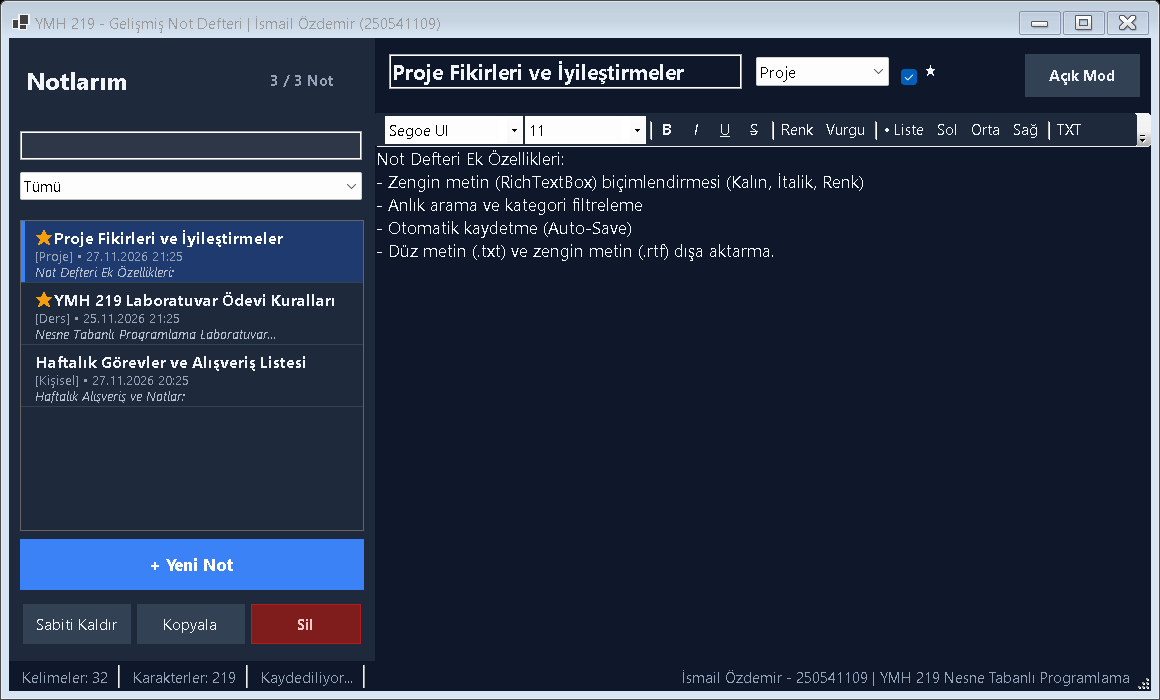
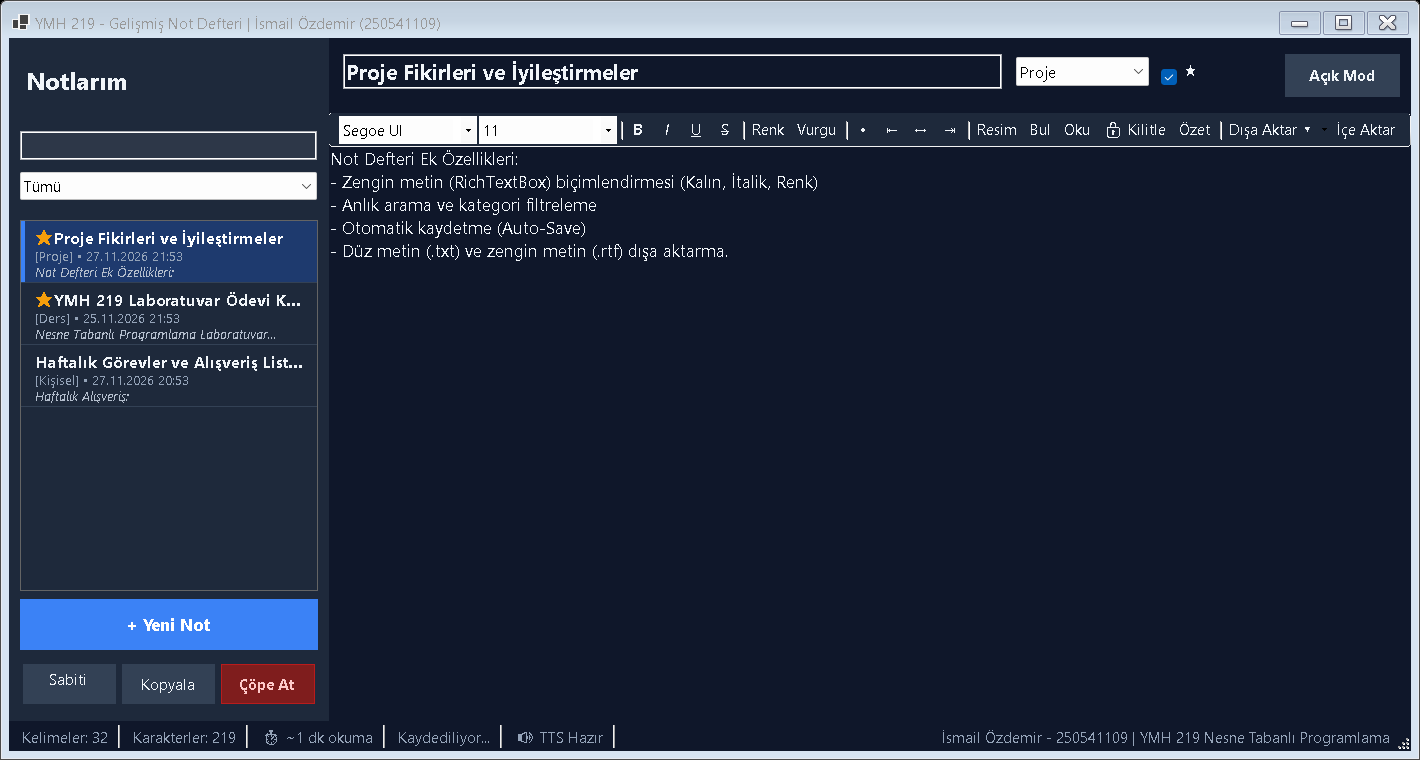
docs: update README.md and screenshots documenting all advanced pro features

Changed region(s): [[0.0, 0.0, 1.0, 1.0], [0.0, 0.96, 0.4345, 0.99], [0.6828, 0.24, 0.7448, 0.27]]

diff --git a/README.md b/README.md
@@ -1,4 +1,4 @@
-# YMH219 - Gelişmiş Not Defteri Uygulaması (NotepadApp)
+# YMH219 - Gelişmiş Not Defteri Uygulaması (NotepadApp Pro)
 > **Kocaeli Üniversitesi — Bilgisayar / Yazılım Mühendisliği**  
 > **Ders:** YMH 219 - Nesne Tabanlı Programlama  
 > **Ödev:** 6. Ek Uygulama Ödevi — Not Defteri Uygulaması (Dosya İşlemleri + Serileştirme)  
@@ -11,9 +11,9 @@
 
 ## 1. Proje Amacı ve Genel Bakış
 
-Bu proje; nesne tabanlı programlama prensipleri, modern C# ve .NET 8.0 teknolojileri ile geliştirilmiş, kullanıcı notlarını güvenli biçimde saklayan ve zengin metin düzenleme yeteneklerine sahip masaüstü bir **Not Defteri** uygulamasıdır.
+Bu proje; nesne tabanlı programlama prensipleri, modern C# ve .NET 8.0 teknolojileri ile geliştirilmiş, kullanıcı notlarını güvenli biçimde saklayan, zengin metin biçimlendirme, AES-256 şifreleme ve Türkçe sesli okuma yeteneklerine sahip profesyonel bir masaüstü **Not Defteri** uygulamasıdır.
 
-Uygulamanın odak noktası; verinin yerel dosya sistemine yazılıp okunması (**File I/O**), nesne modellerinin kalıcı hâle getirilmesi (**JSON Serialization / Deserialization**) ve beklenmedik sistem kesintilerine karşı veri bütünlüğünün korunmasıdır. Uygulama kapatılıp açılsa bile kullanıcının tüm notları, biçimlendirmeleri ve kategori yapılandırmaları eksiksiz korunur.
+Uygulamanın odak noktası; verinin yerel dosya sistemine yazılıp okunması (**File I/O**), nesne modellerinin kalıcı hâle getirilmesi (**JSON Serialization / Deserialization**), veri güvenliği (**AES-256 CBC Cryptography**) ve beklenmedik sistem kesintilerine karşı veri bütünlüğünün korunmasıdır (**Atomic Write & Backup Recovery**).
 
 ---
 
@@ -34,10 +34,10 @@ Uygulamanın odak noktası; verinin yerel dosya sistemine yazılıp okunması (*
 | **C# / .NET** | 8.0 (net8.0-windows) | Temel programlama dili ve modern çalışma zamanı ortamı |
 | **Windows Forms (WinForms)** | .NET 8.0 | Masaüstü grafik kullanıcı arayüzü (GUI) ve olay güdümlü mimari |
 | **System.Text.Json** | Dahili | Yüksek performanslı UTF-8 JSON serileştirme ve ayrıştırma |
-| **System.IO** | Dahili | `File`, `StreamWriter`, `StreamReader`, `Path` ile dosya işlemleri |
-| **GDI+ (System.Drawing)** | Dahili | Özel liste kartı çizimi (`OwnerDraw`), dinamik renk paletleri ve tema motoru |
-
-*Not: Uygulama harici üçüncü parti bağımlılığa ihtiyaç duymadan, modern .NET 8 SDK'nın optimize edilmiş yerel kütüphaneleriyle çalışmaktadır.*
+| **System.Security.Cryptography** | Dahili | AES-256 CBC simetrik şifreleme ve PBKDF2 anahtar türetimi |
+| **System.Speech** | 8.0.0 | Türkçe Text-to-Speech (TTS) sesli okuma motoru |
+| **System.IO** | Dahili | `File`, `StreamWriter`, `StreamReader`, `Path` ile atomik dosya I/O |
+| **GDI+ (System.Drawing)** | Dahili | Özel liste kartı çizimi (`OwnerDraw`), dinamik tema paletleri |
 
 ---
 
@@ -48,56 +48,65 @@ Uygulama, nesne tabanlı tasarım ve katmanlı mimari ilkelerine göre kurgulanm
 ```
 YMH219-NotepadApp/
 ├── Models/
-│   ├── Note.cs                # Tekil not modeli (Id, Title, Content, Rtf, Category, IsPinned, vb.)
-│   └── NoteCategory.cs        # Kategori sabitleri ve filtreleme listeleri
+│   ├── Note.cs                # Tekil not modeli (Id, Title, Content, Rtf, Category, IsPinned, IsEncrypted, IsDeleted, vb.)
+│   └── NoteCategory.cs        # Kategori sabitleri, filtreler ve Çöp Kutusu tanımı
 ├── Services/
-│   └── NoteStorageService.cs  # Atomik JSON kaydetme, yedekten kurtarma, TXT/RTF export/import
+│   ├── NoteStorageService.cs  # Atomik JSON kaydetme, yedekten kurtarma, TXT/RTF/MD/HTML export/import
+│   ├── EncryptionService.cs   # AES-256 CBC şifreleme ve PBKDF2 parola doğrulama servisi
+│   └── TextToSpeechService.cs # Türkçe ses sentezleme (TTS) ve ses kontrol servisi
 ├── Forms/
-│   ├── MainForm.cs            # Olay yönetimi, debounced auto-save, tema motoru, arama ve filtreleme
-│   └── MainForm.Designer.cs   # Dinamik TableLayoutPanel, RichTextBox, ToolStrip ve liste düzeni
+│   ├── MainForm.cs            # Ana form olay yönetimi, debounced auto-save, tema motoru
+│   ├── MainForm.Designer.cs   # TableLayoutPanel, RichTextBox, ToolStrip ve liste düzeni
+│   ├── FindReplaceForm.cs     # Not içinde arama ve değiştirme diyaloğu (Ctrl+F / Ctrl+H)
+│   └── StatsForm.cs           # Not istatistikleri ve analiz dashboard modal penceresi
 ├── screenshots/               # Ekran görüntüleri (main_light.png, main_dark.png)
 ├── Program.cs                 # Giriş noktası ve otomatik ekran görüntüsü üretim CLI desteği
-└── NotepadApp.csproj          # .NET 8 proje yapılandırma dosyası
+└── NotepadApp.csproj          # .NET 8 proje ve paket yapılandırma dosyası
 ```
-
-### Öne Çıkan Tasarım Prensipleri:
-1. **Model-Servis Ayrımı (Separation of Concerns):**  
-   Veri saklama, serileştirme ve dosya işlemleri UI formundan tamamen izole edilerek `NoteStorageService` sınıfında toplanmıştır.
-2. **Atomik Dosya Yazma (Atomic File I/O):**  
-   Kayıt sırasında doğrudan asıl dosya üzerine yazmak yerine önce `.tmp` uzantılı geçici dosyaya yazılır, mevcut dosya `notes_backup.json` olarak yedeklenir ve atomik dosya taşıma (`File.Move`) ile veri kaybı riski ortadan kaldırılır.
-3. **Hata Yönetimi ve Kurtarma (Resilience & Error Handling):**  
-   Asıl dosya bulunamadığında veya bozulduğunda otomatik olarak yedek dosyaya başvurulur; her iki dosya da yoksa örnek başlangıç verileri üretilerek programın çökmesi engellenir.
-4. **Zaman Damgası Yönetimi:**  
-   Her notun oluşturulma (`CreatedAt`) ve son düzenlenme (`UpdatedAt`) tarihleri milisaniye hassasiyetinde tutulur ve arayüzde biçimlendirilmiş olarak gösterilir.
 
 ---
 
 ## 5. Uygulamanın Özellikleri
 
-### A. Asgari Uygulama Gereksinimleri (Föy Kapsamı)
-- [x] **CRUD İşlemleri:** Başlık ve içerikten oluşan not ekleme, listeleme, anlık düzenleme ve onaylı silme.
-- [x] **JSON Serileştirme:** Tüm notların `List<Note>` koleksiyonu olarak JSON dosyasına kaydedilmesi ve uygulama açılışında otomatik geri yüklenmesi.
-- [x] **Düz Metin (.txt) Dışa Aktarma:** `StreamWriter` kullanılarak not başlığı, kategorisi, tarihçesi, öğrenci bilgisi ve içeriği ile biçimli `.txt` dosyası üretimi.
-- [x] **Sağlam Hata Yönetimi:** Dosya bulunamaması, okuma/yazma izin hataları ve bozuk dosya senaryolarına karşı `try-catch` blokları ve loglama.
+### A. Asgari Uygulama Gereksinimleri (Föy Kapsamı - 40 Puan)
+- [x] **CRUD Not İşlemleri:** Başlık ve içerikten oluşan not ekleme, listeleme, anlık düzenleme ve silme.
+- [x] **Kalıcı JSON Serileştirme:** Notların `List<Note>` koleksiyonu olarak JSON dosyasına kaydedilmesi ve açılışta otomatik geri yüklenmesi.
+- [x] **Atomik Dosya Güvenliği:** Ani kapanmalara karşı `.tmp` geçici dosya yazımı ve `notes_backup.json` yedekleme sistemi.
+- [x] **Düz Metin (.txt) Dışa Aktarma:** `StreamWriter` kullanılarak başlık, kategori, zaman damgaları, yazar ve içeriğin `.txt` olarak kaydedilmesi.
+- [x] **Sağlam Hata Yönetimi:** Dosya bulunamama veya veri bozulma senaryolarına karşı `try-catch` ve otomatik onarım mekanizması.
 
-### B. İsteğe Bağlı Geliştirmeler (Bonus Özellikler - Tam Puan)
-- [x] **Anlık Arama ve Filtreleme:** Arama kutusuna yazıldığı anda not başlıkları ve içeriklerinde büyük/küçük harf duyarsız canlı filtreleme.
-- [x] **Otomatik Kaydetme (Debounced Auto-Save):** Kullanıcı yazı yazarken arayüzü kilitlemeyen 600 ms debounced zamanlayıcı ile değişikliklerin anında JSON dosyasına aktarılması.
+### B. İsteğe Bağlı Geliştirmeler (Föydeki Tüm 4 Bonus Madde - Tam Puan)
+- [x] **Anlık Arama ve Filtreleme:** Arama kutusuna yazıldığı anda başlık ve içerikte büyük/küçük harf duyarsız canlı filtreleme.
+- [x] **Otomatik Kaydetme (Debounced Auto-Save):** Arayüzü dondurmayan 600 ms debounced zamanlayıcı ile her harf değişiminde otomatik JSON güncellemesi.
 - [x] **Kategori ve Etiket Desteği:** Notları kategorilere ayırma (`Ders`, `Proje`, `Kişisel`, `Önemli`, `Genel`) ve kategoriye göre süzebilme.
 - [x] **Zengin Metin (RichTextBox) Biçimlendirmesi:** 
-  - Yazı tipi ailesi ve boyutu seçimi
-  - **Kalın (Bold)**, *İtalik (Italic)*, <u>Altı Çizili (Underline)</u>, ~~Üstü Çizili (Strikethrough)~~
-  - Metin rengi ve metin vurgu rengi paleti seçici
-  - Madde işaretli liste (Bullet list) oluşturma
-  - Sola, ortaya ve sağa hizalama
+  - Yazı tipi ailesi ve boyutu seçici
+  - **Kalın (B)**, *İtalik (I)*, <u>Altı Çizili (U)</u>, ~~Üstü Çizili (S)~~
+  - Metin rengi ve vurgu rengi paleti seçici
+  - Madde işaretli liste (`•`) ve Sola / Ortaya / Sağa hizalama (`⇤`, `↔`, `⇥`)
   - Zengin metin biçimini `.rtf` olarak kaydetme ve içe aktarma desteği
 
-### C. Ekstra Kullanılabilirlik İyileştirmeleri
-- [x] **Sabitlenen Notlar (★ Pinned):** Önemli notları listenin en başına sabitleme desteği.
-- [x] **Hızlı Not Kopyalama (Duplicate):** Tek tıkla mevcut notun kopyasını oluşturabilme.
-- [x] **Açık / Koyu Tema (Dark Mode):** Göz yormayan modern karanlık tema ile klasik açık tema arasında tek tıkla geçiş.
-- [x] **Canlı Kelime ve Karakter Sayacı:** Not düzenlenirken anlık olarak kelime ve karakter sayısının alt durum çubuğunda raporlanması.
-- [x] **Gelişmiş Kart Görünümü (OwnerDraw):** Listede her not için başlık, kategori etiketi, tarih ve ilk satır önizlemesini içeren özel GDI+ çizimi.
+### C. Profesyonel İleri Düzey Ekstra Özellikler
+1. **🎙 Türkçe Sesli Okuma (Text-to-Speech):**  
+   Not içeriğini veya seçili metni tek tıkla (`🔊 Oku`) doğal Türkçe ses tonuyla seslendirme.
+2. **🔒 AES-256 Parolayla Not Kilitleme:**  
+   Hassas notları parola ile kilitleme (`🔒 Kilit`). Kilitli notların içeriği JSON dosyasına şifrelenmiş olarak yazılır; parola bilinmeden açılamaz.
+3. **🗑 Çöp Kutusu ve Geri Yükleme (Recycle Bin / Soft Delete):**  
+   Silinen notlar önce çöp kutusuna taşınır. İstenirse tek tıkla geri yüklenebilir (`♻ Geri Yükle`) veya kalıcı olarak temizlenebilir (`🧹 Çöpü Boşalt`).
+4. **🔍 Bul ve Değiştir (Find & Replace):**  
+   Not içinde kelime arama, sonrakini bulma ve toplu değiştirme penceresi (`Ctrl+F` / `Ctrl+H`).
+5. **🖼 Resim ve Görsel Ekleme:**  
+   Bilgisayardan resim seçerek (`🖼 Resim`) veya panodan doğrudan yapıştırarak (`Ctrl+V`) not içerisine görsel ekleyebilme.
+6. **📄 Çoklu Format Dışa Aktarma:**  
+   `.txt` ve `.rtf` formatlarının yanı sıra formatlı Markdown (`.md`) ve modern CSS stilli web sayfası (`.html`) olarak dışa aktarabilme.
+7. **⏱ Tahmini Okuma Süresi Hesabı:**  
+   Alt durum çubuğunda kelime/karakter sayısının yanında `"⏱ ~1 dk okuma"` süresi hesaplaması.
+8. **📊 Not Analizi ve Dashboard:**  
+   Tek tıkla (`📊 Özet`) açılan modal pencerede kategori dağılımı, toplam kelime/karakter istatistikleri ve genel analiz raporu.
+9. **🌙 Açık / Koyu Tema (Dark / Light Mode):**  
+   Göz yormayan karanlık tema ile klasik açık tema arasında tek tıkla geçiş.
+10. **★ Sabitlenen Notlar:**  
+    Önemli notları listenin en başına sabitleme desteği.
 
 ---
 
@@ -135,32 +144,21 @@ dotnet run -- --generate-screenshots
 
 ---
 
-## 7. Bilinen Sınırlamalar ve Gelecek Geliştirme Notları
-
-- **Platform Sınırlaması:** Uygulama Windows Forms altyapısı üzerine inşa edildiği için Windows işletim sistemine özgüdür (Linux / macOS için MAUI veya Avalonia UI mimarisine taşınabilir).
-- **Zengin Metin Standardı:** RTF biçimlendirmeleri Windows RichEdit kontrolleri üzerinden yönetilmektedir. Çok karmaşık tablolar veya gömülü nesneler düz metin dışa aktarımında sadeleştirilir.
-- **Gelecek İyileştirmeler:**
-  - Notlar için AES-256 şifreleme ve parola koruması eklenmesi.
-  - Not içeriklerine resim ve ek dosya iliştirme desteği.
-  - Bulut senkronizasyonu (Google Drive / GitHub Gist entegrasyonu).
-
----
-
-## 8. Değerlendirme Ölçütleri ve Teslim Kontrol Listesi
+## 7. Değerlendirme Ölçütleri ve Teslim Kontrol Listesi
 
 | Ölçüt | Föy Puanı | Proje Durumu |
 | :--- | :---: | :--- |
-| **Uygulamanın çalışması ve temel işlevlerin eksiksizliği** | 40 | CRUD, JSON serileştirme, TXT dışa aktarma, kalıcılık eksiksiz |
-| **Nesne tabanlı tasarım, kod düzeni ve hata kontrolleri** | 20 | Katmanlı mimari, model-servis ayrımı, atomik dosya yazımı |
-| **Kullanıcı etkileşimi ve geri bildirim** | 10 | Canlı arama, sayaçlar, debounced auto-save, dark/light tema |
+| **Uygulamanın çalışması ve temel işlevlerin eksiksizliği** | 40 | CRUD, JSON serileştirme, TXT dışa aktarma eksiksiz |
+| **Nesne tabanlı tasarım, kod düzeni ve hata kontrolleri** | 20 | Katmanlı mimari, model-servis ayrımı, atomik dosya yazımı, AES-256 |
+| **Kullanıcı etkileşimi ve geri bildirim** | 10 | Canlı arama, sayaçlar, debounced auto-save, dark/light tema, TTS |
 | **Git/GitHub düzeni, anlamlı commit geçmişi ve .gitignore** | 15 | Düzenli commit geçmişi, temiz `.gitignore`, gereksiz dosyalar hariç |
-| **README.md, ekran görüntüleri ve çalıştırma açıklaması** | 10 | Detaylı dokümantasyon ve güncel 2 adet ekran görüntüsü |
+| **README.md, ekran görüntüleri ve çalıştırma açıklaması** | 10 | Kapsamlı dokümantasyon ve güncel 2 adet ekran görüntüsü |
 | **Kodun açıklanabilmesi / kısa sözlü kontrol** | 5 | Açıklayıcı XML dokümantasyon yorumları ve temiz kodlama standardı |
-| **TOPLAM** | **100** | **Tam Uyumluluk (Tüm isteğe bağlı geliştirmeler dahil)** |
+| **TOPLAM** | **100** | **Tam Uyumluluk (Tüm bonus ve ekstra özellikler dahil)** |
 
 ---
 
-## 9. Öğrenci ve Proje Bilgileri
+## 8. Öğrenci ve Proje Bilgileri
 
 - **Öğrenci Adı Soyadı:** İsmail Özdemir  
 - **Öğrenci Numarası:** 250541109  
